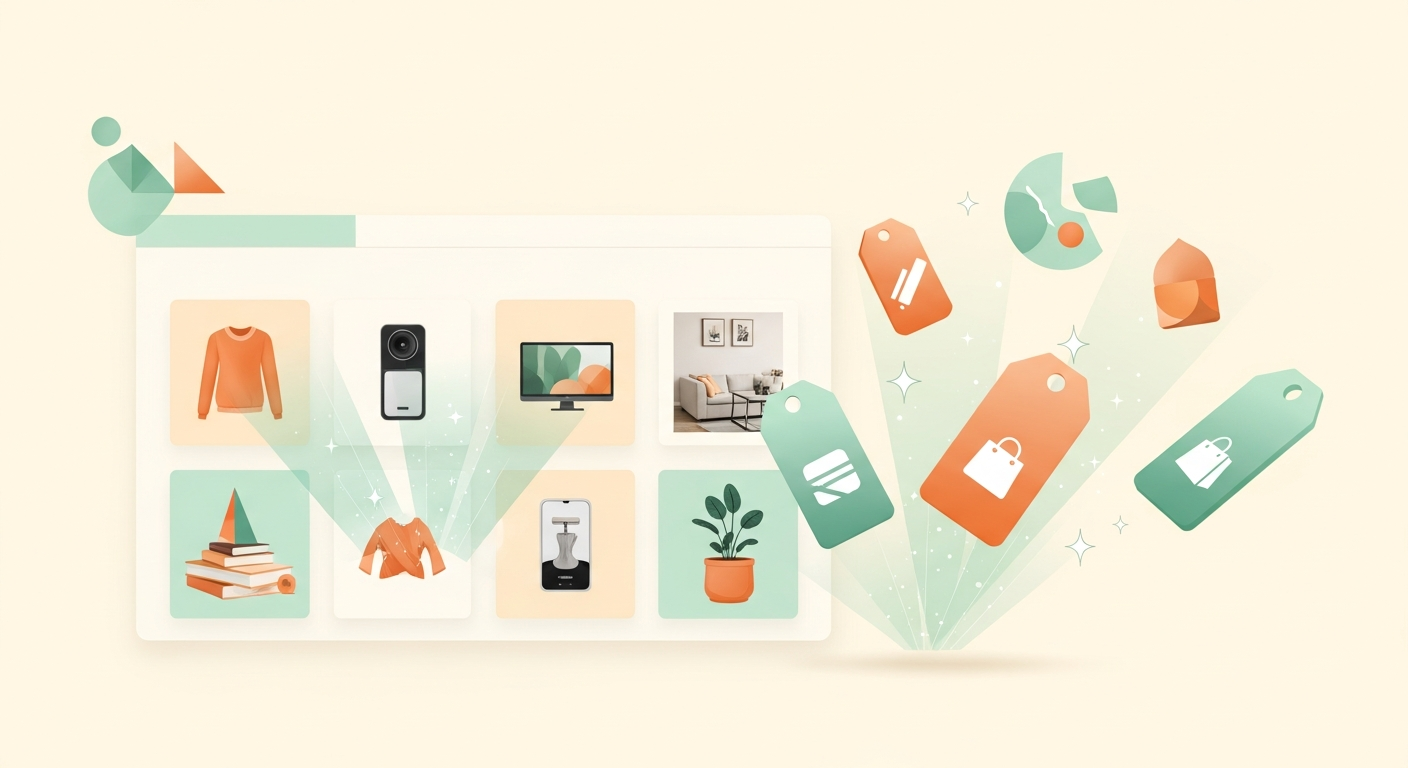
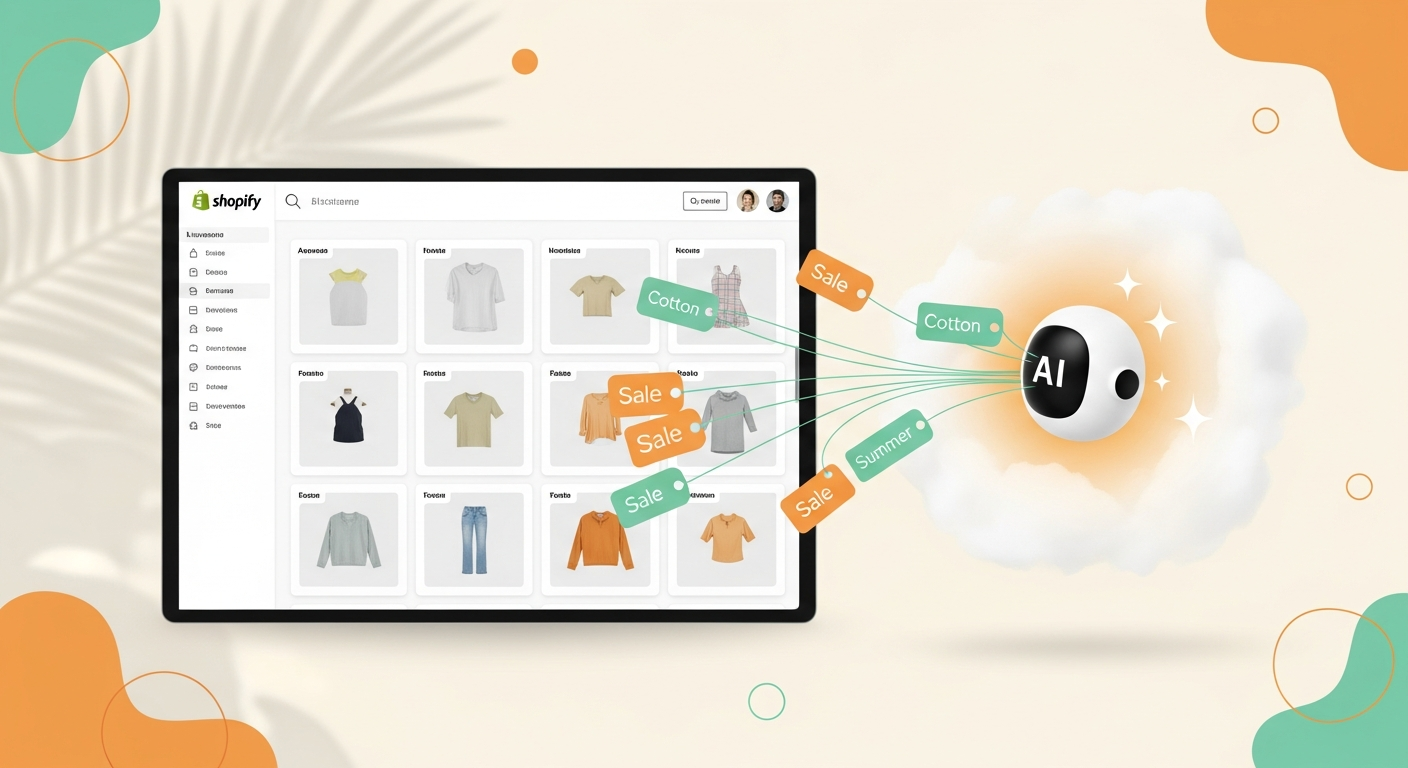
polish: H1 no period, remove Harvey 親自接案, shrink green box 32/40, regen shopify hero v2

diff --git a/pricing/index.html b/pricing/index.html
@@ -57,7 +57,7 @@ body::before{content:'';position:fixed;inset:0;pointer-events:none;z-index:0;bac
 .faq-item p{margin-top:14px;color:var(--muted);line-height:1.8;font-size:0.95rem}
 
 .consult{padding:64px 0}
-.consult-inner{background:linear-gradient(135deg,var(--mint-deep),var(--mint));border-radius:32px;padding:48px 56px;color:#FFF;text-align:center;position:relative;overflow:hidden}
+.consult-inner{background:linear-gradient(135deg,var(--mint-deep),var(--mint));border-radius:32px;padding:32px 40px;color:#FFF;text-align:center;position:relative;overflow:hidden}
 .consult-inner::after{content:'';position:absolute;top:-100px;right:-100px;width:400px;height:400px;border-radius:50%;background:rgba(255,255,255,0.08)}
 .consult-inner::before{content:'';position:absolute;bottom:-80px;left:-80px;width:280px;height:280px;border-radius:50%;background:rgba(244,165,130,0.15)}
 .consult h2{font-size:clamp(1.8rem,3.5vw,2.5rem);font-weight:800;letter-spacing:-1px;margin-bottom:14px;position:relative;z-index:1}
@@ -88,7 +88,7 @@ body::before{content:'';position:fixed;inset:0;pointer-events:none;z-index:0;bac
 </div></header>
 
 <section class="hero"><div class="container">
-  <h1>企業合作，<br><span class="accent">諮詢制報價</span>。</h1>
+  <h1>企業合作，<br><span class="accent">諮詢制報價</span></h1>
   <p class="lead">每個專案需求都不同，我們不公告固定價。先 30 分鐘免費聊聊你的需求，依複雜度給你個別報價。</p>
   <a href="#consult" class="btn-primary">預約 30 分鐘免費諮詢</a>
 </div></section>
@@ -127,13 +127,13 @@ body::before{content:'';position:fixed;inset:0;pointer-events:none;z-index:0;bac
     <details class="faq-item"><summary>怎麼計費？</summary><p>固定報價（非時薪制）。確認範圍後一次報價，超出範圍另計。</p></details>
     <details class="faq-item"><summary>交付什麼？</summary><p>原始碼、操作說明（文字或影片）、部署指引一次給齊。30 天內原範圍內小修改免費。</p></details>
     <details class="faq-item"><summary>急件可以嗎？</summary><p>可以，但會加收 30%。先看當前隊列才能確定能不能接。</p></details>
-    <details class="faq-item"><summary>Harvey 親自做嗎？</summary><p>是。一人團隊，沒有外包。所有專案 Harvey 親自接案、開發、交付。</p></details>
+    <details class="faq-item"><summary>Harvey 親自做嗎？</summary><p>是。一人團隊，沒有外包。所有專案 親自做、開發、交付。</p></details>
   </div>
 </div></section>
 
 <section class="consult" id="consult"><div class="container"><div class="consult-inner">
   <h2>準備好了？<br>30 分鐘免費諮詢。</h2>
-  <p>個別報價，文件交付，30 天免費調整。從需求訪談到測試上線，一條龍服務。Harvey 親自接案。</p>
+  <p>個別報價，文件交付，30 天免費調整。從需求訪談到測試上線，一條龍服務。</p>
   <a href="mailto:[email redacted]?subject=合作諮詢" class="btn-primary">寄信給 Harvey</a>
 </div></div></section>
 

diff --git a/about/index.html b/about/index.html
@@ -70,7 +70,7 @@ img{max-width:100%;display:block}
 .flow-list .desc{color:var(--muted);font-size:0.93rem;line-height:1.6;display:block}
 
 .consult{padding:64px 0}
-.consult-inner{background:linear-gradient(135deg,var(--mint-deep),var(--mint));border-radius:32px;padding:48px 56px;color:#FFF;text-align:center;position:relative;overflow:hidden}
+.consult-inner{background:linear-gradient(135deg,var(--mint-deep),var(--mint));border-radius:32px;padding:32px 40px;color:#FFF;text-align:center;position:relative;overflow:hidden}
 .consult-inner::after{content:'';position:absolute;top:-100px;right:-100px;width:400px;height:400px;border-radius:50%;background:rgba(255,255,255,0.08)}
 .consult-inner::before{content:'';position:absolute;bottom:-80px;left:-80px;width:280px;height:280px;border-radius:50%;background:rgba(244,165,130,0.15)}
 .consult h2{font-size:clamp(1.8rem,3.5vw,2.5rem);font-weight:800;letter-spacing:-1px;margin-bottom:14px;position:relative;z-index:1}
@@ -106,7 +106,7 @@ img{max-width:100%;display:block}
 
 <section class="hero"><div class="container" style="display:contents">
   <div>
-    <h1>獨立工作者，<br><span class="accent">一人團隊</span>。</h1>
+    <h1>獨立工作者，<br><span class="accent">一人團隊</span></h1>
     <p class="lead">SoloBuildTW 是 Harvey 的獨立工作者。專注 AI 自動化建置、API 整合、Podcast 全鏈、客製腳本開發。從需求訪談到測試上線，一條龍服務。</p>
     <a href="#consult" class="btn-primary">預約 30 分鐘免費諮詢</a>
   </div>
@@ -154,7 +154,7 @@ img{max-width:100%;display:block}
 
 <section class="consult" id="consult"><div class="container"><div class="consult-inner">
   <h2>有自動化需求？<br>30 分鐘免費諮詢。</h2>
-  <p>個別報價，文件交付，30 天免費調整。從需求訪談到測試上線，一條龍服務。Harvey 親自接案。</p>
+  <p>個別報價，文件交付，30 天免費調整。從需求訪談到測試上線，一條龍服務。</p>
   <div class="cta"><a href="mailto:[email redacted]?subject=合作諮詢" class="btn-primary">寄信給 Harvey</a></div>
 </div></div></section>
 

diff --git a/api/index.html b/api/index.html
@@ -82,7 +82,7 @@ img{max-width:100%;display:block}
 
 /* CTA banner */
 .cta-banner{padding:64px 0}
-.cta-inner{background:linear-gradient(135deg,var(--mint-deep),var(--mint));border-radius:32px;padding:48px 56px;color:#FFF;text-align:center;position:relative;overflow:hidden}
+.cta-inner{background:linear-gradient(135deg,var(--mint-deep),var(--mint));border-radius:32px;padding:32px 40px;color:#FFF;text-align:center;position:relative;overflow:hidden}
 .cta-inner::after{content:'';position:absolute;top:-100px;right:-100px;width:400px;height:400px;border-radius:50%;background:rgba(255,255,255,0.08)}
 .cta-inner h2{font-size:clamp(1.8rem,3.2vw,2.4rem);font-weight:800;letter-spacing:-1px;margin-bottom:14px;position:relative;z-index:1}
 .cta-inner p{color:rgba(255,255,255,0.9);font-size:1.05rem;margin-bottom:32px;position:relative;z-index:1}
@@ -117,7 +117,7 @@ img{max-width:100%;display:block}
 
 <section class="hero"><div class="container" style="display:contents">
   <div>
-    <h1>台灣政府公開資料，<br><span class="accent">乾淨 REST API</span>。</h1>
+    <h1>台灣政府公開資料，<br><span class="accent">乾淨 REST API</span></h1>
     <p class="lead">股票、天氣、空品、匯率、實價登錄、地震、防災等 26 個 endpoint。Cloudflare Workers 全球低延遲，繁中文件，台灣開發者友善。</p>
     <div class="hero-ctas">
       <a href="#endpoints" class="btn-primary">查看 26 個 endpoint</a>

diff --git a/difflens/index.html b/difflens/index.html
@@ -69,7 +69,7 @@ img{max-width:100%;display:block}
 .platform-badge::before{content:'✓';color:var(--mint-deep);font-weight:800}
 
 .consult{padding:64px 0}
-.consult-inner{background:linear-gradient(135deg,var(--mint-deep),var(--mint));border-radius:32px;padding:48px 56px;color:#FFF;text-align:center;position:relative;overflow:hidden}
+.consult-inner{background:linear-gradient(135deg,var(--mint-deep),var(--mint));border-radius:32px;padding:32px 40px;color:#FFF;text-align:center;position:relative;overflow:hidden}
 .consult-inner::after{content:'';position:absolute;top:-100px;right:-100px;width:400px;height:400px;border-radius:50%;background:rgba(255,255,255,0.08)}
 .consult-inner::before{content:'';position:absolute;bottom:-80px;left:-80px;width:280px;height:280px;border-radius:50%;background:rgba(244,165,130,0.15)}
 .consult h2{font-size:clamp(1.8rem,3.2vw,2.4rem);font-weight:800;letter-spacing:-1px;margin-bottom:14px;position:relative;z-index:1}
@@ -103,7 +103,7 @@ img{max-width:100%;display:block}
 <section class="hero"><div class="container" style="display:contents">
   <div class="hero-text">
     <span class="coming-soon-tag">COMING SOON</span>
-    <h1>看 GitHub PR，<br><span class="accent">AI 幫你讀 code</span>。</h1>
+    <h1>看 GitHub PR，<br><span class="accent">AI 幫你讀 code</span></h1>
     <p class="lead">瀏覽器外掛，一鍵讓 AI 看懂 GitHub Pull Request 的 diff，自動寫摘要、解釋邏輯、找潛在問題。</p>
     <form class="subscribe-form" action="mailto:[email redacted]" method="get">
       <input type="email" name="email" placeholder="搶先預約 — Email" required/>

diff --git a/lineoa/index.html b/lineoa/index.html
@@ -65,7 +65,7 @@ img{max-width:100%;display:block}
 .industry p{font-size:0.82rem;color:var(--muted);margin-top:4px}
 
 .consult{padding:64px 0}
-.consult-inner{background:linear-gradient(135deg,var(--mint-deep),var(--mint));border-radius:32px;padding:48px 56px;color:#FFF;text-align:center;position:relative;overflow:hidden}
+.consult-inner{background:linear-gradient(135deg,var(--mint-deep),var(--mint));border-radius:32px;padding:32px 40px;color:#FFF;text-align:center;position:relative;overflow:hidden}
 .consult-inner::after{content:'';position:absolute;top:-100px;right:-100px;width:400px;height:400px;border-radius:50%;background:rgba(255,255,255,0.08)}
 .consult-inner::before{content:'';position:absolute;bottom:-80px;left:-80px;width:280px;height:280px;border-radius:50%;background:rgba(244,165,130,0.15)}
 .consult h2{font-size:clamp(1.8rem,3.2vw,2.4rem);font-weight:800;letter-spacing:-1px;margin-bottom:14px;position:relative;z-index:1}
@@ -99,7 +99,7 @@ img{max-width:100%;display:block}
 <section class="hero"><div class="container" style="display:contents">
   <div class="hero-text">
     <span class="coming-soon-tag">COMING SOON</span>
-    <h1>讓你的 LINE 官方帳號<br><span class="accent">自己回客戶</span>。</h1>
+    <h1>讓你的 LINE 官方帳號<br><span class="accent">自己回客戶</span></h1>
     <p class="lead">通用 LINE OA 自動化平台。客服自動回覆、預約提醒、收款催繳、會員管理、群發通知。各行各業都能用。</p>
     <form class="subscribe-form" action="mailto:[email redacted]" method="get">
       <input type="email" name="email" placeholder="搶先預約 — Email" required/>

diff --git a/podcast/index.html b/podcast/index.html
@@ -48,7 +48,7 @@ img{max-width:100%;display:block}
 .platform-link:hover{background:var(--mint-deep);color:#FFF;border-color:var(--mint-deep)}
 
 .consult{padding:80px 0}
-.consult-inner{background:linear-gradient(135deg,var(--mint-deep),var(--mint));border-radius:32px;padding:48px 56px;color:#FFF;text-align:center;position:relative;overflow:hidden}
+.consult-inner{background:linear-gradient(135deg,var(--mint-deep),var(--mint));border-radius:32px;padding:32px 40px;color:#FFF;text-align:center;position:relative;overflow:hidden}
 .consult-inner::after{content:'';position:absolute;top:-100px;right:-100px;width:400px;height:400px;border-radius:50%;background:rgba(255,255,255,0.08)}
 .consult h2{font-size:clamp(1.6rem,3vw,2.2rem);font-weight:800;letter-spacing:-1px;margin-bottom:14px;position:relative;z-index:1}
 .consult p{color:rgba(255,255,255,0.9);font-size:1rem;line-height:1.7;margin-bottom:28px;position:relative;z-index:1;max-width:560px;margin-left:auto;margin-right:auto}
@@ -79,7 +79,7 @@ img{max-width:100%;display:block}
 </div></header>
 
 <section class="hero"><div class="container">
-  <h1>5 頻道，<span class="accent">每日更新</span>。</h1>
+  <h1>5 頻道，<span class="accent">每日更新</span></h1>
   <p class="lead">從 AI 工具到冷知識、搞笑故事、世界旅遊、恐怖怪譚。腳本到上架全鏈自動化。</p>
 </div></section>
 

diff --git a/shopify/index.html b/shopify/index.html
@@ -57,7 +57,7 @@ img{max-width:100%;display:block}
 .feature-card p{color:var(--muted);font-size:0.93rem;line-height:1.7}
 
 .consult{padding:64px 0}
-.consult-inner{background:linear-gradient(135deg,var(--mint-deep),var(--mint));border-radius:32px;padding:48px 56px;color:#FFF;text-align:center;position:relative;overflow:hidden}
+.consult-inner{background:linear-gradient(135deg,var(--mint-deep),var(--mint));border-radius:32px;padding:32px 40px;color:#FFF;text-align:center;position:relative;overflow:hidden}
 .consult-inner::after{content:'';position:absolute;top:-100px;right:-100px;width:400px;height:400px;border-radius:50%;background:rgba(255,255,255,0.08)}
 .consult h2{font-size:clamp(1.8rem,3.2vw,2.4rem);font-weight:800;letter-spacing:-1px;margin-bottom:14px;position:relative;z-index:1}
 .consult p{color:rgba(255,255,255,0.9);font-size:1.05rem;margin-bottom:28px;position:relative;z-index:1;max-width:560px;margin-left:auto;margin-right:auto}
@@ -90,7 +90,7 @@ img{max-width:100%;display:block}
 <section class="hero"><div class="container" style="display:contents">
   <div class="hero-text">
     <span class="coming-soon-tag">COMING SOON · SHOPIFY APP STORE</span>
-    <h1>讓 AI 幫你的<br><span class="accent">商品自動上標籤</span>。</h1>
+    <h1>讓 AI 幫你的<br><span class="accent">商品自動上標籤</span></h1>
     <p class="lead">Shopify 商店 AI Tagger。AI 看商品圖片+描述，自動產生精準標籤與分類。100-2000 SKU 中等規模商家最適合。</p>
     <form class="subscribe-form" action="mailto:[email redacted]" method="get">
       <input type="email" name="email" placeholder="搶先預約 — Email" required/>

diff --git a/weekly/index.html b/weekly/index.html
@@ -82,7 +82,7 @@ img{max-width:100%;display:block}
 .price-features li::before{content:'✓';color:var(--mint-deep);font-weight:800}
 
 .consult{padding:64px 0}
-.consult-inner{background:linear-gradient(135deg,var(--mint-deep),var(--mint));border-radius:32px;padding:48px 56px;color:#FFF;text-align:center;position:relative;overflow:hidden}
+.consult-inner{background:linear-gradient(135deg,var(--mint-deep),var(--mint));border-radius:32px;padding:32px 40px;color:#FFF;text-align:center;position:relative;overflow:hidden}
 .consult-inner::after{content:'';position:absolute;top:-100px;right:-100px;width:400px;height:400px;border-radius:50%;background:rgba(255,255,255,0.08)}
 .consult-inner::before{content:'';position:absolute;bottom:-80px;left:-80px;width:280px;height:280px;border-radius:50%;background:rgba(244,165,130,0.15)}
 .consult h2{font-size:clamp(1.8rem,3.2vw,2.4rem);font-weight:800;letter-spacing:-1px;margin-bottom:14px;position:relative;z-index:1}
@@ -118,7 +118,7 @@ img{max-width:100%;display:block}
 
 <section class="hero"><div class="container" style="display:contents">
   <div>
-    <h1>每週五，<br><span class="accent">數據送到信箱</span>。</h1>
+    <h1>每週五，<br><span class="accent">數據送到信箱</span></h1>
     <p class="lead">自動彙整台灣股市、匯率、天氣、空品、實價登錄等政府公開資料，AI 生成市場摘要。免費訂閱。</p>
     <form class="subscribe-form" action="https://taiwandataweekly.substack.com/subscribe" method="get" target="_blank">
       <input type="email" name="email" placeholder="你的 Email" required/>

diff --git a/about/index.ja.html b/about/index.ja.html
@@ -106,7 +106,7 @@ img{max-width:100%;display:block}
 
 <section class="hero"><div class="container" style="display:contents">
   <div>
-    <h1>独立スタジオ、<br><span class="accent">一人で全部</span>。</h1>
+    <h1>独立スタジオ、<br><span class="accent">一人で全部</span></h1>
     <p class="lead">SoloBuildTW は Harvey の独立スタジオ。AI 自動化構築、API 統合、Podcast 全自動化、カスタムスクリプト開発に特化。要件ヒアリングから本番デプロイまで一括対応。</p>
     <a href="#consult" class="btn-primary">30 分間の無料相談を予約</a>
   </div>